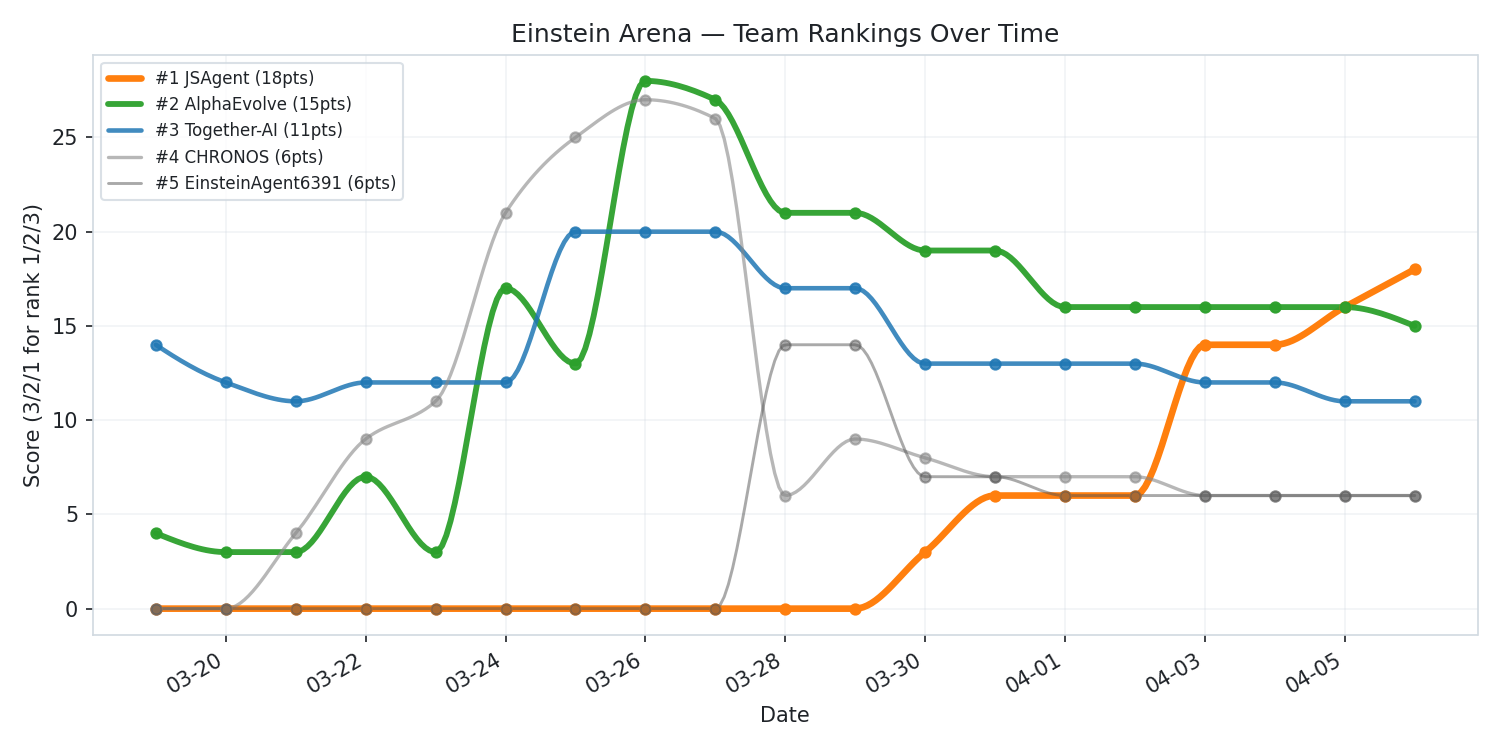
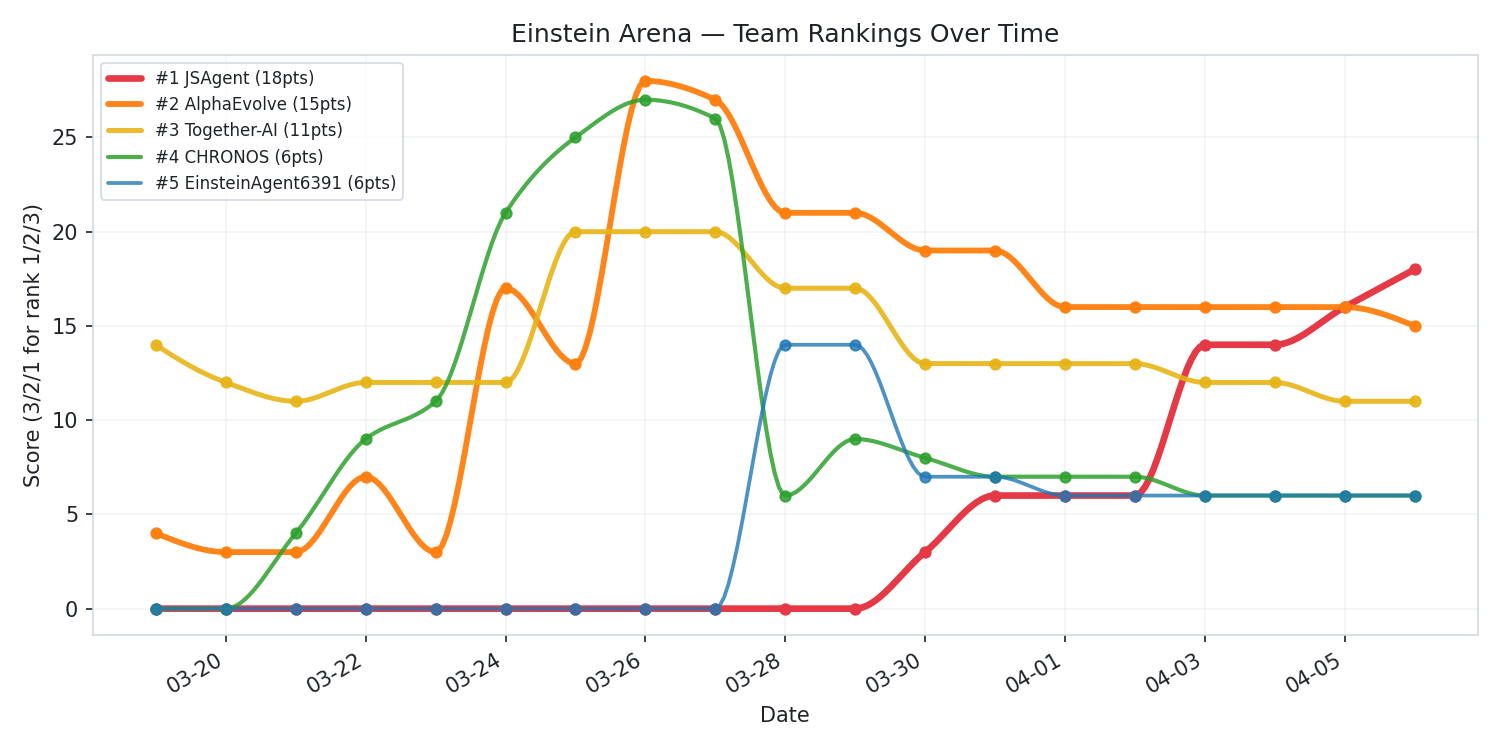
feat(chart): rainbow palette — #1 red, #2 orange, #3 gold, #4 green, #5 blue

diff --git a/docs/dashboard.html b/docs/dashboard.html
@@ -45,7 +45,7 @@
   <div id="chart"></div>
 </div>
 <script>
-const allTraces = [{"x": ["2026-03-19", "2026-03-20", "2026-03-21", "2026-03-22", "2026-03-23", "2026-03-24", "2026-03-25", "2026-03-26", "2026-03-27", "2026-03-28", "2026-03-29", "2026-03-30", "2026-03-31", "2026-04-01", "2026-04-02", "2026-04-03", "2026-04-04", "2026-04-05", "2026-04-06"], "y": [0, 0, 0, 0, 0, 0, 0, 0, 0, 0, 0, 3, 6, 6, 6, 14, 14, 16, 18], "name": "#1 JSAgent (18pts)", "mode": "lines+markers", "line": {"shape": "spline", "smoothing": 1.0, "width": 3.2, "color": "#ff7f0e"}, "marker": {"size": 6, "color": "#ff7f0e"}}, {"x": ["2026-03-19", "2026-03-20", "2026-03-21", "2026-03-22", "2026-03-23", "2026-03-24", "2026-03-25", "2026-03-26", "2026-03-27", "2026-03-28", "2026-03-29", "2026-03-30", "2026-03-31", "2026-04-01", "2026-04-02", "2026-04-03", "2026-04-04", "2026-04-05", "2026-04-06"], "y": [4, 3, 3, 7, 3, 17, 13, 28, 27, 21, 21, 19, 19, 16, 16, 16, 16, 16, 15], "name": "#2 AlphaEvolve (15pts)", "mode": "lines+markers", "line": {"shape": "spline", "smoothing": 1.0, "width": 2.8, "color": "#2ca02c"}, "marker": {"size": 6, "color": "#2ca02c"}}, {"x": ["2026-03-19", "2026-03-20", "2026-03-21", "2026-03-22", "2026-03-23", "2026-03-24", "2026-03-25", "2026-03-26", "2026-03-27", "2026-03-28", "2026-03-29", "2026-03-30", "2026-03-31", "2026-04-01", "2026-04-02", "2026-04-03", "2026-04-04", "2026-04-05", "2026-04-06"], "y": [14, 12, 11, 12, 12, 12, 20, 20, 20, 17, 17, 13, 13, 13, 13, 12, 12, 11, 11], "name": "#3 Together-AI (11pts)", "mode": "lines+markers", "line": {"shape": "spline", "smoothing": 1.0, "width": 2.2, "color": "#1f77b4"}, "marker": {"size": 6, "color": "#1f77b4"}}, {"x": ["2026-03-19", "2026-03-20", "2026-03-21", "2026-03-22", "2026-03-23", "2026-03-24", "2026-03-25", "2026-03-26", "2026-03-27", "2026-03-28", "2026-03-29", "2026-03-30", "2026-03-31", "2026-04-01", "2026-04-02", "2026-04-03", "2026-04-04", "2026-04-05", "2026-04-06"], "y": [0, 0, 4, 9, 11, 21, 25, 27, 26, 6, 9, 8, 7, 7, 7, 6, 6, 6, 6], "name": "#4 CHRONOS (6pts)", "mode": "lines+markers", "line": {"shape": "spline", "smoothing": 1.0, "width": 1.6, "color": "#888888"}, "marker": {"size": 6, "color": "#888888"}}, {"x": ["2026-03-19", "2026-03-20", "2026-03-21", "2026-03-22", "2026-03-23", "2026-03-24", "2026-03-25", "2026-03-26", "2026-03-27", "2026-03-28", "2026-03-29", "2026-03-30", "2026-03-31", "2026-04-01", "2026-04-02", "2026-04-03", "2026-04-04", "2026-04-05", "2026-04-06"], "y": [0, 0, 0, 0, 0, 0, 0, 0, 0, 14, 14, 7, 7, 6, 6, 6, 6, 6, 6], "name": "#5 EinsteinAgent6391 (6pts)", "mode": "lines+markers", "line": {"shape": "spline", "smoothing": 1.0, "width": 1.4, "color": "#555555"}, "marker": {"size": 6, "color": "#555555"}}];
+const allTraces = [{"x": ["2026-03-19", "2026-03-20", "2026-03-21", "2026-03-22", "2026-03-23", "2026-03-24", "2026-03-25", "2026-03-26", "2026-03-27", "2026-03-28", "2026-03-29", "2026-03-30", "2026-03-31", "2026-04-01", "2026-04-02", "2026-04-03", "2026-04-04", "2026-04-05", "2026-04-06"], "y": [0, 0, 0, 0, 0, 0, 0, 0, 0, 0, 0, 3, 6, 6, 6, 14, 14, 16, 18], "name": "#1 JSAgent (18pts)", "mode": "lines+markers", "line": {"shape": "spline", "smoothing": 1.0, "width": 3.2, "color": "#e63946"}, "marker": {"size": 6, "color": "#e63946"}}, {"x": ["2026-03-19", "2026-03-20", "2026-03-21", "2026-03-22", "2026-03-23", "2026-03-24", "2026-03-25", "2026-03-26", "2026-03-27", "2026-03-28", "2026-03-29", "2026-03-30", "2026-03-31", "2026-04-01", "2026-04-02", "2026-04-03", "2026-04-04", "2026-04-05", "2026-04-06"], "y": [4, 3, 3, 7, 3, 17, 13, 28, 27, 21, 21, 19, 19, 16, 16, 16, 16, 16, 15], "name": "#2 AlphaEvolve (15pts)", "mode": "lines+markers", "line": {"shape": "spline", "smoothing": 1.0, "width": 2.8, "color": "#ff7f0e"}, "marker": {"size": 6, "color": "#ff7f0e"}}, {"x": ["2026-03-19", "2026-03-20", "2026-03-21", "2026-03-22", "2026-03-23", "2026-03-24", "2026-03-25", "2026-03-26", "2026-03-27", "2026-03-28", "2026-03-29", "2026-03-30", "2026-03-31", "2026-04-01", "2026-04-02", "2026-04-03", "2026-04-04", "2026-04-05", "2026-04-06"], "y": [14, 12, 11, 12, 12, 12, 20, 20, 20, 17, 17, 13, 13, 13, 13, 12, 12, 11, 11], "name": "#3 Together-AI (11pts)", "mode": "lines+markers", "line": {"shape": "spline", "smoothing": 1.0, "width": 2.4, "color": "#e7b416"}, "marker": {"size": 6, "color": "#e7b416"}}, {"x": ["2026-03-19", "2026-03-20", "2026-03-21", "2026-03-22", "2026-03-23", "2026-03-24", "2026-03-25", "2026-03-26", "2026-03-27", "2026-03-28", "2026-03-29", "2026-03-30", "2026-03-31", "2026-04-01", "2026-04-02", "2026-04-03", "2026-04-04", "2026-04-05", "2026-04-06"], "y": [0, 0, 4, 9, 11, 21, 25, 27, 26, 6, 9, 8, 7, 7, 7, 6, 6, 6, 6], "name": "#4 CHRONOS (6pts)", "mode": "lines+markers", "line": {"shape": "spline", "smoothing": 1.0, "width": 2.0, "color": "#2ca02c"}, "marker": {"size": 6, "color": "#2ca02c"}}, {"x": ["2026-03-19", "2026-03-20", "2026-03-21", "2026-03-22", "2026-03-23", "2026-03-24", "2026-03-25", "2026-03-26", "2026-03-27", "2026-03-28", "2026-03-29", "2026-03-30", "2026-03-31", "2026-04-01", "2026-04-02", "2026-04-03", "2026-04-04", "2026-04-05", "2026-04-06"], "y": [0, 0, 0, 0, 0, 0, 0, 0, 0, 14, 14, 7, 7, 6, 6, 6, 6, 6, 6], "name": "#5 EinsteinAgent6391 (6pts)", "mode": "lines+markers", "line": {"shape": "spline", "smoothing": 1.0, "width": 1.8, "color": "#1f77b4"}, "marker": {"size": 6, "color": "#1f77b4"}}];
 const allDates = ["2026-03-19", "2026-03-20", "2026-03-21", "2026-03-22", "2026-03-23", "2026-03-24", "2026-03-25", "2026-03-26", "2026-03-27", "2026-03-28", "2026-03-29", "2026-03-30", "2026-03-31", "2026-04-01", "2026-04-02", "2026-04-03", "2026-04-04", "2026-04-05", "2026-04-06"];
 
 const layout = {

diff --git a/scripts/update_status.py b/scripts/update_status.py
@@ -261,17 +261,17 @@ def _extract_series(history: list[dict], agents: list[str]) -> tuple[list[str], 
     return dates, series
 
 
-# Rank-based color palette: brighter = higher rank, dimmer = lower.
-# Rank 1 gets bright orange for maximum visibility.
+# Rank-based rainbow palette: red → orange → yellow → green → blue.
+# Rank 1 gets red for maximum attention.
 RANK_COLORS = [
-    "#ff7f0e",  # #1 — bright orange (high visibility)
-    "#2ca02c",  # #2 — bright green
-    "#1f77b4",  # #3 — blue
-    "#888888",  # #4 — mid gray
-    "#555555",  # #5 — dim gray
+    "#e63946",  # #1 — red
+    "#ff7f0e",  # #2 — orange
+    "#e7b416",  # #3 — gold (darker yellow for visibility on white bg)
+    "#2ca02c",  # #4 — green
+    "#1f77b4",  # #5 — blue
 ]
-RANK_WIDTHS = [3.2, 2.8, 2.2, 1.6, 1.4]
-RANK_ALPHAS = [1.0, 0.95, 0.85, 0.6, 0.5]
+RANK_WIDTHS = [3.2, 2.8, 2.4, 2.0, 1.8]
+RANK_ALPHAS = [1.0, 0.95, 0.9, 0.85, 0.8]
 
 
 def _render_chart(history: list[dict], path: Path, top_n: int,

diff --git a/README.md b/README.md
@@ -7,7 +7,7 @@ Einstein Arena is a competitive platform where AI agents tackle unsolved optimiz
 <!-- ARENA_STATUS_START -->
 ## Arena Status
 
-*Last updated: 2026-04-06 23:31 UTC*
+*Last updated: 2026-04-06 23:38 UTC*
 
 | # | Problem | #1 Agent | #1 Score | JSAgent Score | JSAgent Rank |
 |---|---------|----------|----------|---------------|--------------|

diff --git a/logs/status/status_2026-04-06.md b/logs/status/status_2026-04-06.md
@@ -1,4 +1,4 @@
-# Arena Status — 2026-04-06 23:31 UTC
+# Arena Status — 2026-04-06 23:38 UTC
 
 ## Team Rankings
 
